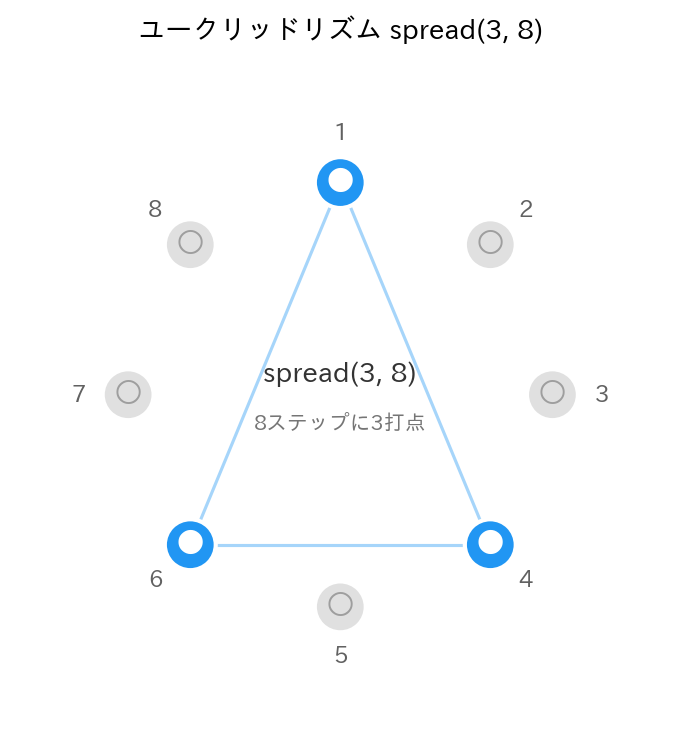
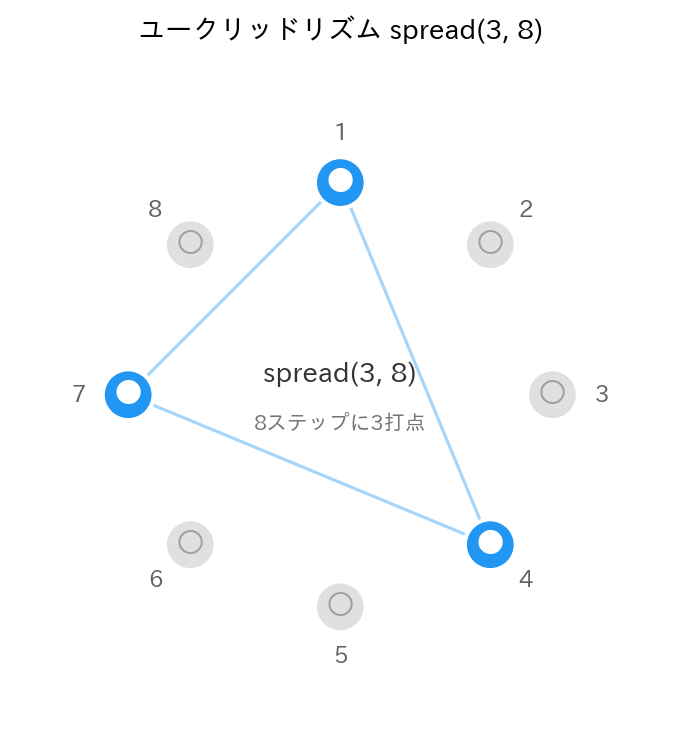
音楽プログラミング入門 コンテンツ更新

diff --git a/music_programming/figures/ch12/generate_figures.py b/music_programming/figures/ch12/generate_figures.py
@@ -69,7 +69,7 @@ def fig2_spread_euclidean():
     n_hits = 3
 
     # spread(3, 8) の結果: true の位置
-    hit_positions = [0, 3, 5]  # (ring true, false, false, true, false, true, false, false)
+    hit_positions = [0, 3, 6]  # (ring true, false, false, true, false, false, true, false)
 
     fig, ax = plt.subplots(figsize=(5, 5))
 
